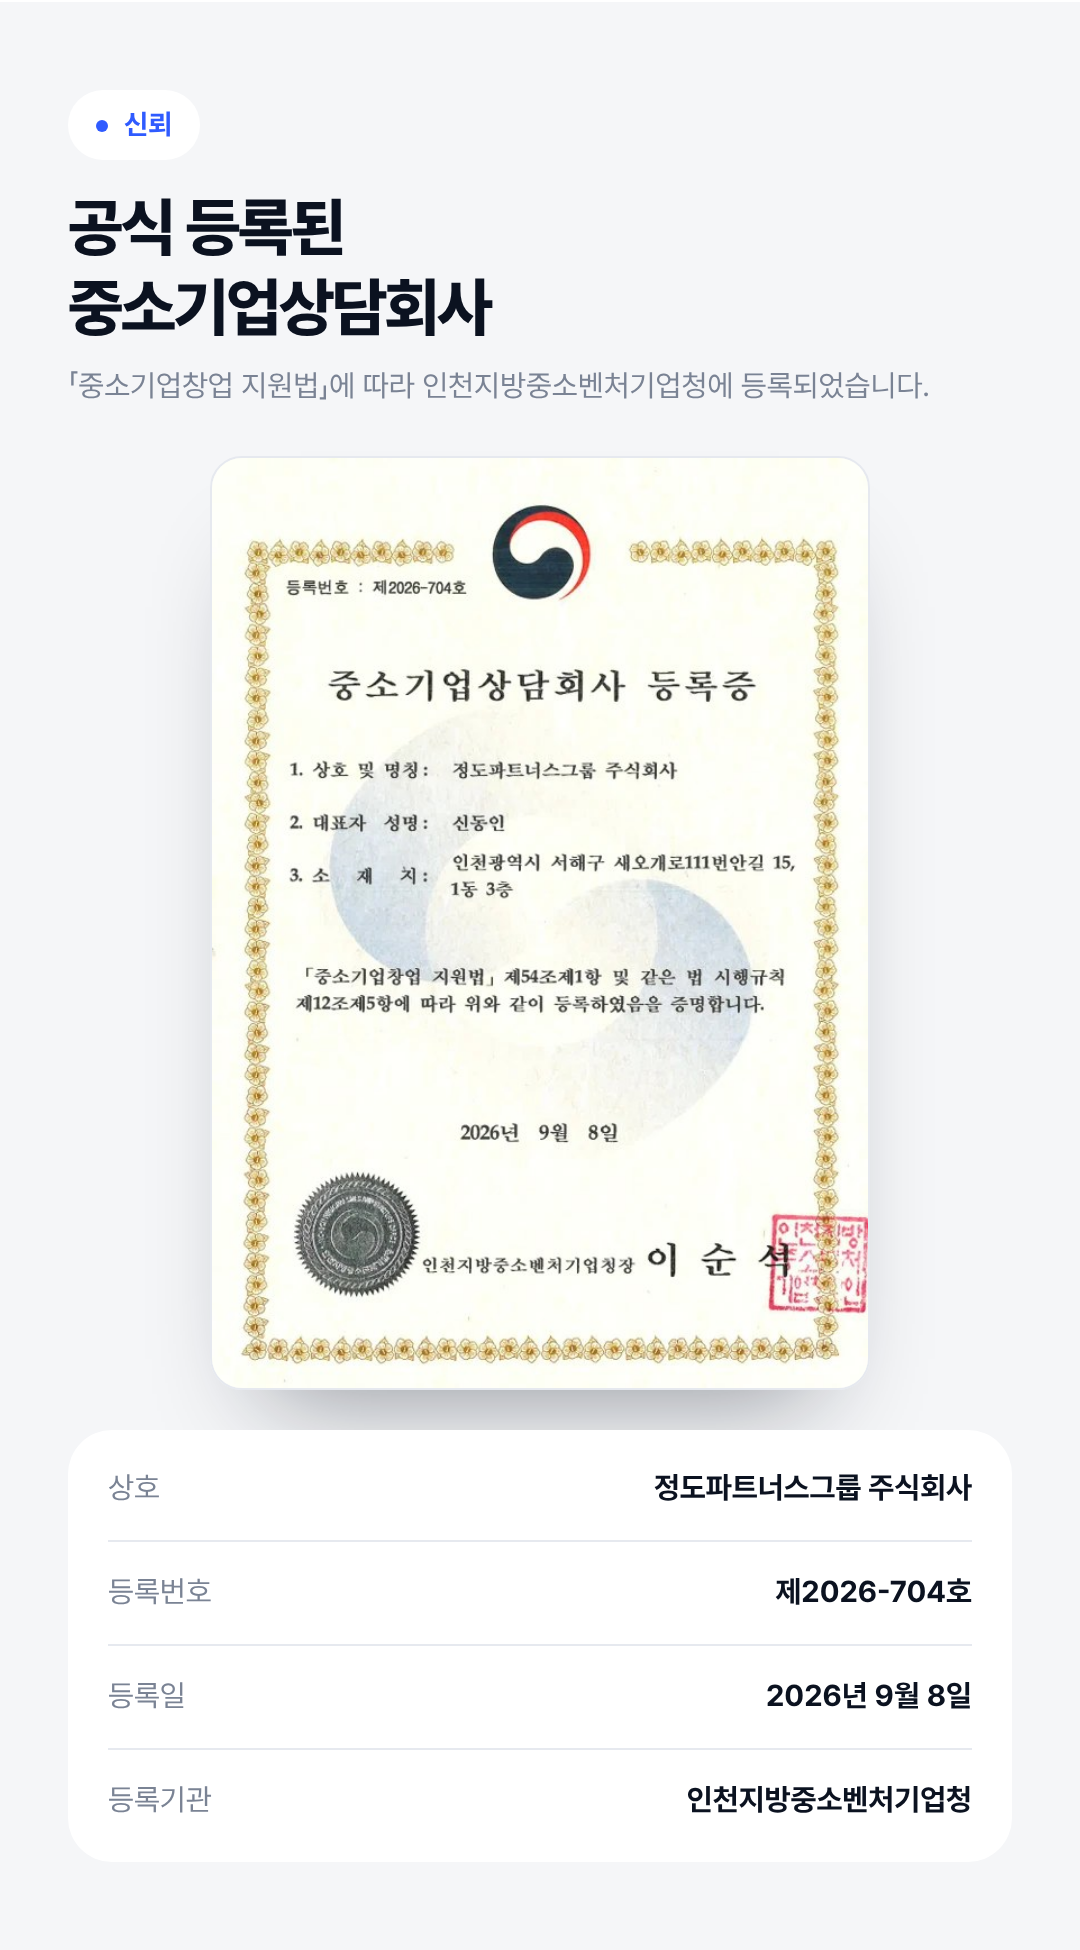
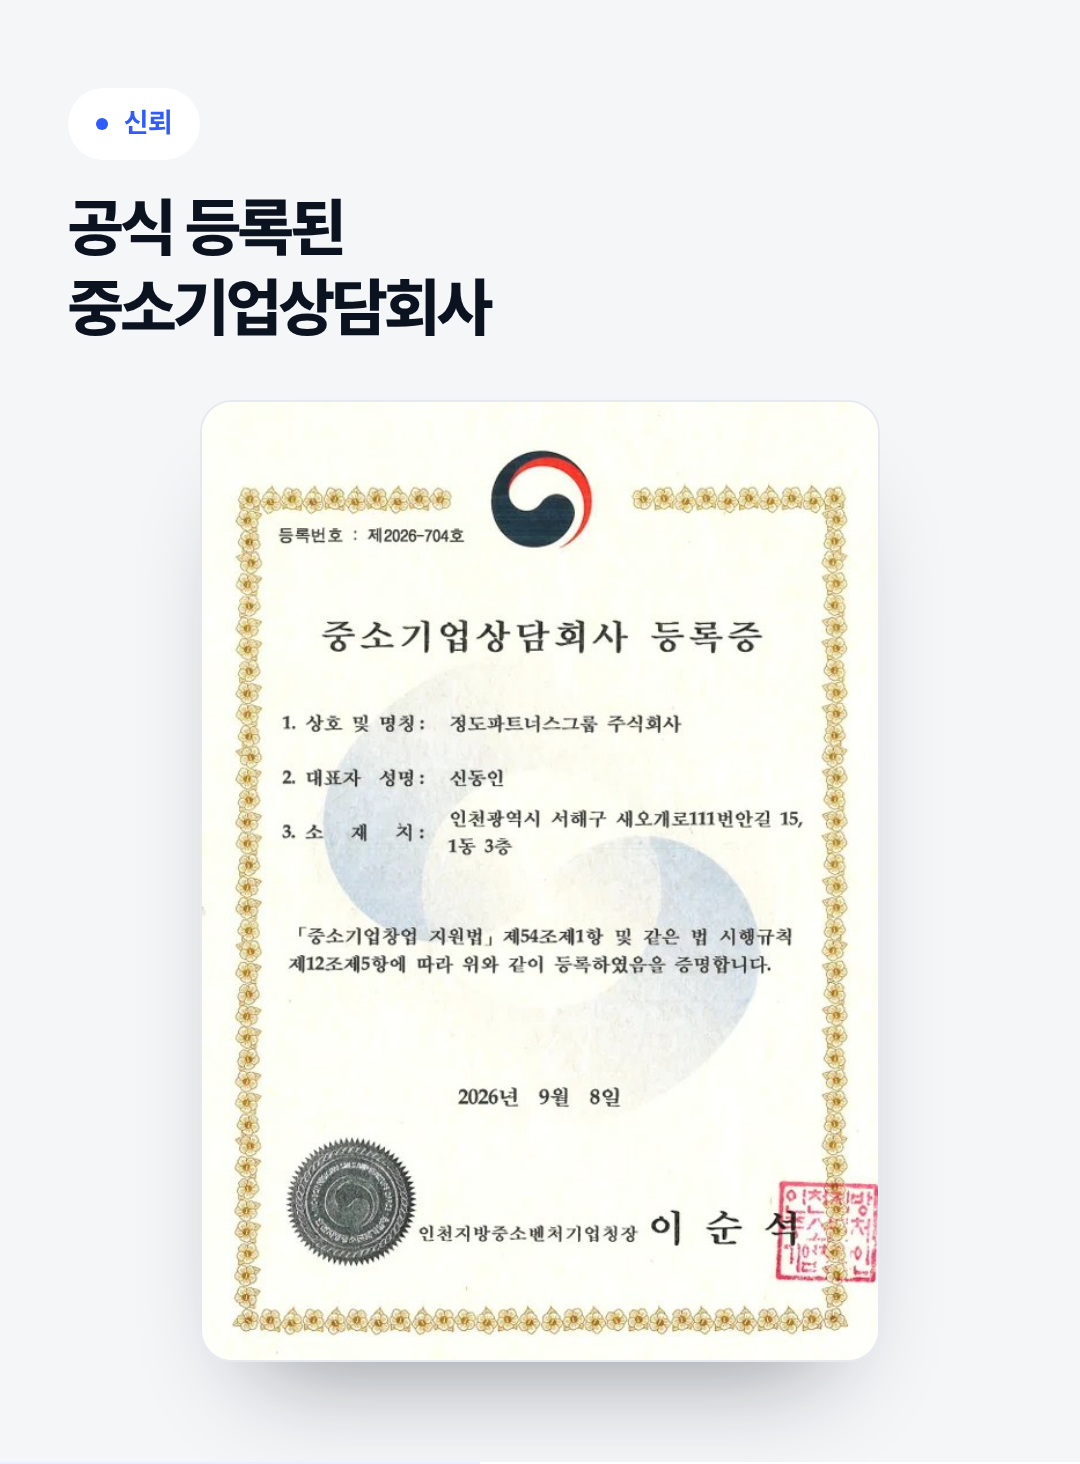
feat: 전문가 진행 안내, 본부 주소 추가, 등록증은 사진만 표시
Claude-Session: https://claude.ai/code/session_01YJTiV56dmegamLnrimau15

diff --git a/jspartners/index.html b/jspartners/index.html
@@ -114,7 +114,7 @@ details[open] summary::after{rotate:-135deg;translate:0 -20%;border-color:var(--
 details p{padding:0 0 22px;color:var(--body);font-size:.95rem}
 
 /* trust */
-.trust{display:grid;gap:34px;align-items:center}
+.trust{display:grid;gap:30px;justify-items:center;text-align:center}
 .cert{position:relative;border-radius:20px;overflow:hidden;cursor:zoom-in;border:1px solid var(--line);background:#fff;box-shadow:0 40px 70px -40px rgba(11,18,32,.4);max-width:380px;margin-inline:auto}
 .cert img{width:100%}
 .cert span{position:absolute;right:10px;bottom:10px;background:var(--navy);color:#fff;font-size:.72rem;font-weight:600;padding:6px 13px;border-radius:999px}
@@ -124,6 +124,10 @@ details p{padding:0 0 22px;color:var(--body);font-size:.95rem}
 .facts dt{color:var(--mute);white-space:nowrap}
 .facts dd{text-align:right;font-weight:700}
 
+.expert{margin-top:14px;display:flex;gap:16px;align-items:center;background:var(--blue-soft);border-radius:24px;padding:22px 22px}
+.expert .ei{flex:none;width:48px;height:48px;border-radius:16px;background:#fff;display:grid;place-items:center}
+.expert svg{width:26px;height:26px;stroke:var(--blue);fill:none;stroke-width:1.7;stroke-linecap:round;stroke-linejoin:round}
+.expert p{font-size:.95rem;color:var(--body)}.expert b{color:var(--ink);font-weight:800}
 /* links */
 .links{margin-top:34px;display:grid;gap:12px}
 .link{display:flex;align-items:center;gap:16px;padding:20px;border-radius:24px;background:var(--soft);transition:.25s;position:relative}
@@ -172,7 +176,7 @@ footer b{color:var(--ink);font-size:.9rem}
   .card.big{grid-column:span 2}
   .points{grid-template-columns:repeat(3,1fr);gap:16px}
   .pt{flex-direction:column;gap:30px;padding:32px 28px}
-  .proc,.trust{grid-template-columns:1fr 1fr;gap:70px}
+  .proc{grid-template-columns:1fr 1fr;gap:70px}
   .links{grid-template-columns:repeat(3,1fr)}
   .link{flex-direction:column;align-items:flex-start;padding:28px}
   .link::after{position:absolute;right:24px;top:24px;margin:0}
@@ -203,7 +207,6 @@ footer b{color:var(--ink);font-size:.9rem}
     </div>
     <div class="visual rv">
       <div class="main"><img src="img/bg.jpg" alt="" fetchpriority="high"></div>
-      <div class="chip stat"><b>중소기업상담회사</b><span>공식 등록 · 제2026-704호</span></div>
       <div class="chip prof"><img src="img/profile.jpg" alt="박건 대표"><div><b>박건 대표</b><span>경영컨설턴트</span></div></div>
     </div>
   </div>
@@ -224,11 +227,12 @@ footer b{color:var(--ink);font-size:.9rem}
     <div class="bento">
       <div class="card big rv"><div><b>경영전략</b><span>방향 설정 · 성장 로드맵</span></div><div class="ic"><svg viewBox="0 0 24 24"><circle cx="12" cy="12" r="9"/><path d="M15.500 8.500l-2 5-5 2 2-5z"/></svg></div></div>
       <div class="card rv"><div class="ic"><svg viewBox="0 0 24 24"><circle cx="12" cy="12" r="9"/><path d="M14.500 9.500c0-1-1.100-1.800-2.500-1.800s-2.500.8-2.500 1.800 1.100 1.600 2.500 1.900 2.500.9 2.500 1.900-1.100 1.800-2.500 1.800-2.500-.8-2.500-1.800M12 6.500v1.200M12 16.300v1.200"/></svg></div><b>자금조달</b><span>정책자금 · 융자</span></div>
-      <div class="card rv"><div class="ic"><svg viewBox="0 0 24 24"><path d="M12 3l8 3v6c0 5-3.400 8-8 9.500C7.400 20 4 17 4 12V6z"/><path d="M8.500 12l2.500 2.500 4.500-5"/></svg></div><b>기업인증</b><span>벤처 · 이노비즈 등</span></div>
+      <div class="card rv"><div class="ic"><svg viewBox="0 0 24 24"><path d="M12 3l8 3v6c0 5-3.400 8-8 9.500C7.400 20 4 17 4 12V6z"/><path d="M8.500 12l2.500 2.500 4.500-5"/></svg></div><b>기업인증</b><span>소속 행정사 · 전문가 진행</span></div>
       <div class="card rv"><div class="ic"><svg viewBox="0 0 24 24"><path d="M4 20h16M7 20v-7M12 20V6M17 20v-10"/></svg></div><b>정부지원사업</b><span>공고 · 선정 전략</span></div>
-      <div class="card rv"><div class="ic"><svg viewBox="0 0 24 24"><path d="M9 18h6M10 21h4M12 3a6 6 0 00-3.400 10.900c.5.400.8 1 .8 1.600v.5h5.200v-.5c0-.6.300-1.200.8-1.600A6 6 0 0012 3z"/></svg></div><b>지식재산권</b><span>특허 · 상표</span></div>
+      <div class="card rv"><div class="ic"><svg viewBox="0 0 24 24"><path d="M9 18h6M10 21h4M12 3a6 6 0 00-3.400 10.900c.5.400.8 1 .8 1.600v.5h5.200v-.5c0-.6.300-1.200.8-1.600A6 6 0 0012 3z"/></svg></div><b>지식재산권</b><span>소속 변리사 · 전문가 진행</span></div>
       <div class="card big rv"><div><b>AI 활용</b><span>업무 · 비즈니스 적용</span></div><div class="ic"><svg viewBox="0 0 24 24"><rect x="6" y="6" width="12" height="12" rx="2.500"/><path d="M10 10h4v4h-4zM9 3v3M15 3v3M9 18v3M15 18v3M3 9h3M3 15h3M18 9h3M18 15h3"/></svg></div></div>
     </div>
+    <div class="expert rv"><div class="ei"><svg viewBox="0 0 24 24"><circle cx="9" cy="8" r="3.5"/><path d="M2.500 20c0-3.600 2.900-6 6.500-6s6.500 2.400 6.500 6M16 4.500a3.500 3.500 0 010 7M18 14.300c2.200.7 3.500 2.600 3.500 5.700"/></svg></div><p><b>기업인증 · 지식재산권 등 전문 분야</b>는<br>회사에 소속된 <b>행정사, 변리사</b> 등 전문가가 직접 진행합니다.</p></div>
   </div>
 </section>
 
@@ -266,19 +270,12 @@ footer b{color:var(--ink);font-size:.9rem}
 
 <section class="sec-soft">
   <div class="wrap trust">
-    <div class="rv">
-      <div class="cert" id="certBtn" role="button" tabindex="0" aria-label="등록증 크게 보기"><img src="img/cert.jpg" alt="중소기업상담회사 등록증" loading="lazy"><span>크게 보기 +</span></div>
-    </div>
     <div>
       <span class="tag rv">신뢰</span>
       <h2 class="rv">공식 등록된<br>중소기업상담회사</h2>
-      <p class="lead rv">정도파트너스그룹은 「중소기업창업 지원법」에 따라 인천지방중소벤처기업청에 등록된 중소기업상담회사입니다.</p>
-      <dl class="facts rv">
-        <div><dt>상호</dt><dd>정도파트너스그룹 주식회사</dd></div>
-        <div><dt>등록번호</dt><dd>제2026-704호</dd></div>
-        <div><dt>등록일</dt><dd>2026년 9월 8일</dd></div>
-        <div><dt>등록기관</dt><dd>인천지방중소벤처기업청</dd></div>
-      </dl>
+    </div>
+    <div class="rv">
+      <div class="cert" id="certBtn" role="button" tabindex="0" aria-label="등록증 크게 보기"><img src="img/cert.jpg" alt="중소기업상담회사 등록증" loading="lazy"><span>크게 보기 +</span></div>
     </div>
   </div>
 </section>
@@ -313,7 +310,8 @@ footer b{color:var(--ink);font-size:.9rem}
 <footer>
   <b>정도파트너스그룹 주식회사 · 경기남부본부</b><br>
   경기남부본부 대표 박건 | 경영컨설턴트<br>
-  인천광역시 서해구 새오개로111번안길 15, 1동 3층<br>
+  <b style="font-size:.78rem;color:var(--body)">경기남부본부</b> 경기도 수원시 장안구 이목로17, 923호<br>
+  <b style="font-size:.78rem;color:var(--body)">본사</b> 인천광역시 서해구 새오개로111번안길 15, 1동 3층<br>
   © Jeongdo Partners Group. All rights reserved.
 </footer>
 
